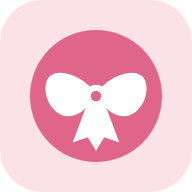
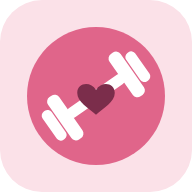
Nouvelle icône plus sportive : haltère avec un cœur
Claude-Session: https://claude.ai/code/session_01FUmrDpcbZuq9ewvFUAZmpu

Changed region(s): [[0.125, 0.125, 0.875, 0.875]]

diff --git a/sw.js b/sw.js
@@ -1,5 +1,5 @@
 /* Sport Mimi — service worker : fonctionne hors connexion */
-const VERSION = "sport-mimi-v1";
+const VERSION = "sport-mimi-v2";
 const CORE = [
   "./",
   "./index.html",
